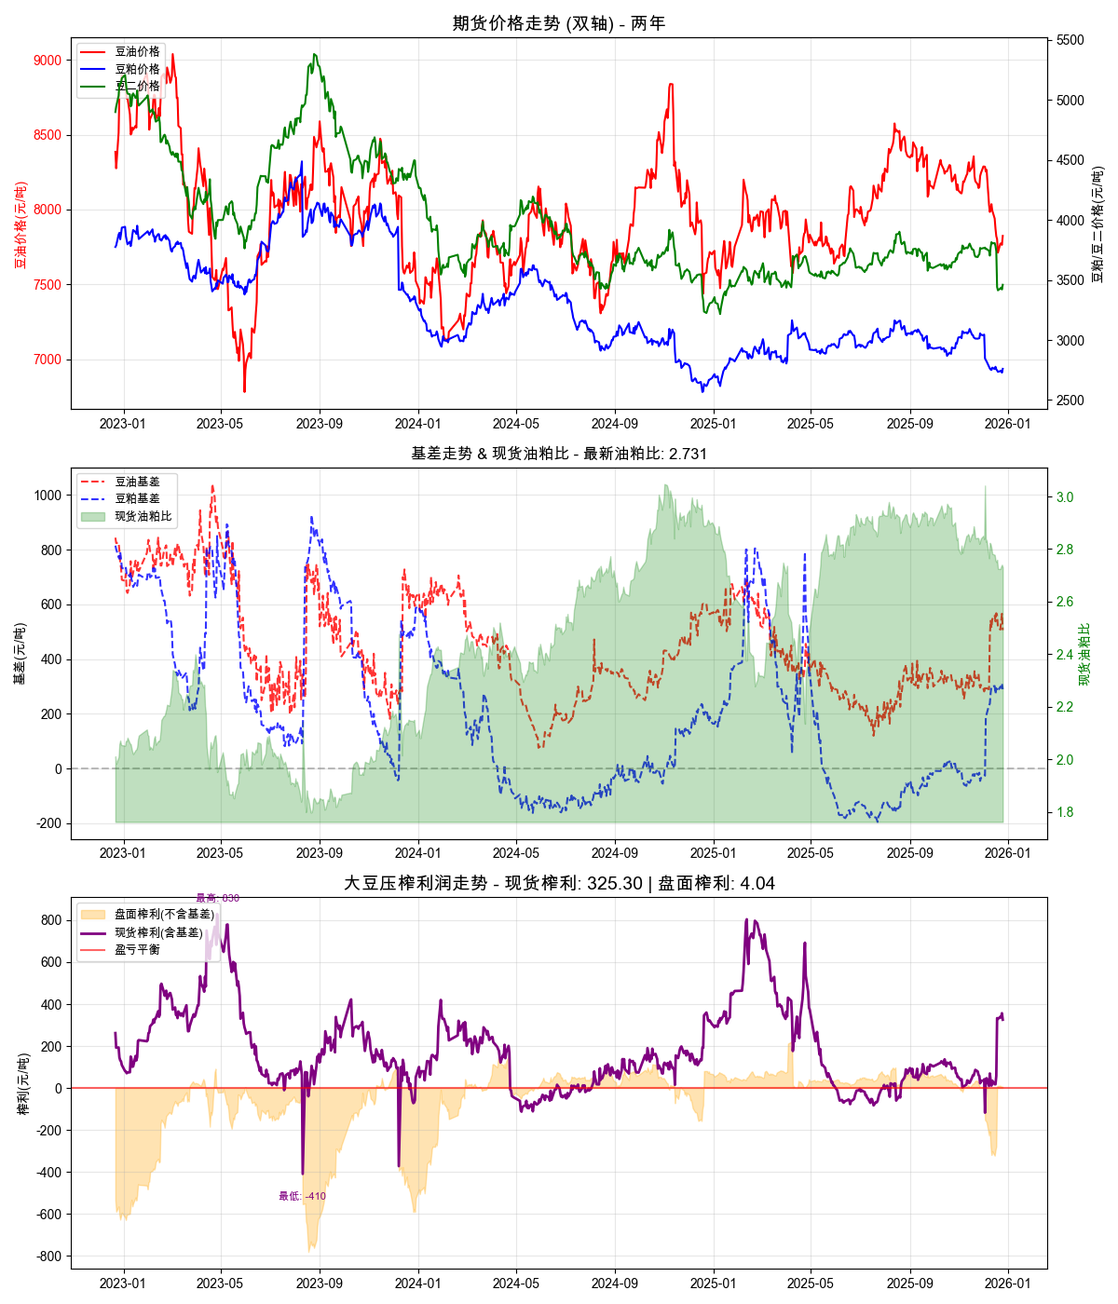
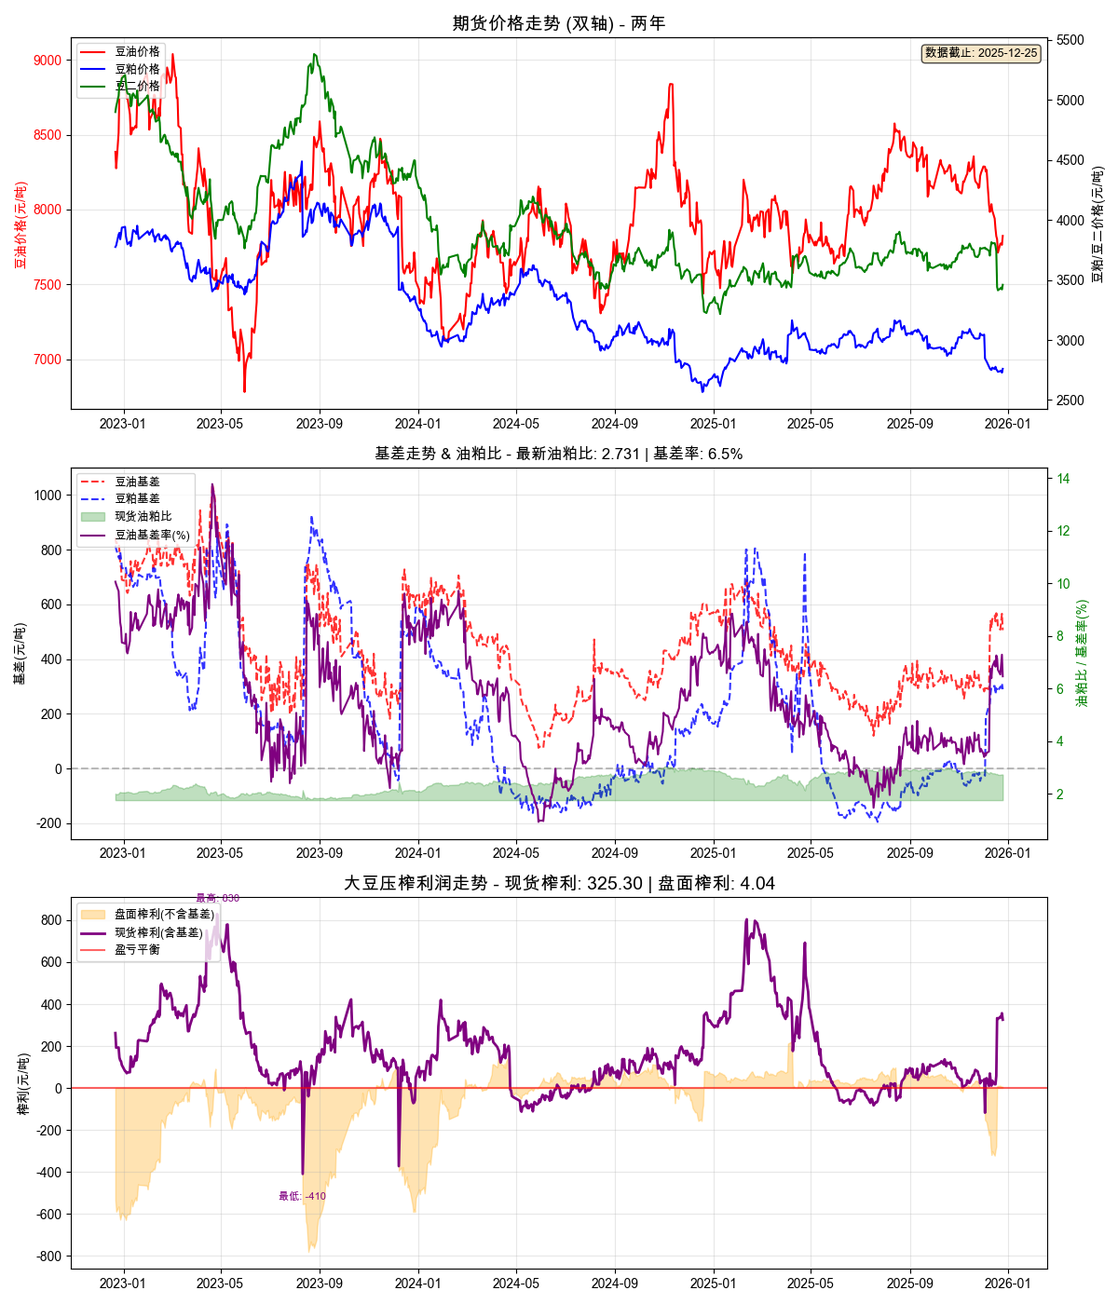
本地更新: 2025-12-25 22:46:08

Changed region(s): [[0.0925, 0.3379, 0.925, 0.645], [0.8017, 0.0307, 0.9558, 0.0614], [0.9558, 0.4607, 0.9867, 0.5529]]

diff --git a/分析文章脚本/榨利计算深度分析_v3.py b/分析文章脚本/榨利计算深度分析_v3.py
@@ -172,6 +172,8 @@ class 榨利计算器V3:
         )
         # 现货油粕比
         合并['现货油粕比'] = (合并['豆油价格'] + 合并['豆油基差']) / (合并['豆粕价格'] + 合并['豆粕基差'])
+        # 豆油基差率（基差/期货价格）
+        合并['豆油基差率'] = 合并['豆油基差'] / 合并['豆油价格'] * 100  # 百分比
         合并['榨利率'] = (合并['榨利'] / 合并['豆二价格']) * 100
         return 合并
 
@@ -201,6 +203,11 @@ class 榨利计算器V3:
         lines2, labels2 = ax1_r.get_legend_handles_labels()
         ax1.legend(lines1 + lines2, labels1 + labels2, loc='upper left', fontsize=9)
         
+        # 右上角显示最新数据日期
+        ax1.text(0.99, 0.97, f'数据截止: {最新日期}', transform=ax1.transAxes, 
+                 fontsize=9, ha='right', va='top', 
+                 bbox=dict(boxstyle='round,pad=0.3', facecolor='wheat', alpha=0.7))
+        
         # 2. 基差走势 (中图) - 含现货油粕比面积图
         ax2.plot(data['日期'], data['豆油基差'], 'r--', label='豆油基差', alpha=0.8)
         ax2.plot(data['日期'], data['豆粕基差'], 'b--', label='豆粕基差', alpha=0.8)
@@ -208,17 +215,18 @@ class 榨利计算器V3:
         ax2.set_ylabel('基差(元/吨)')
         ax2.grid(True, alpha=0.3)
         
-        # 右轴：现货油粕比面积图
+        # 右轴：现货油粕比面积图 + 豆油基差率折线
         ax2_r = ax2.twinx()
         ax2_r.fill_between(data['日期'], data['现货油粕比'].min() * 0.98, data['现货油粕比'], alpha=0.25, color='green', label='现货油粕比')
-        ax2_r.set_ylabel('现货油粕比', color='green')
+        ax2_r.plot(data['日期'], data['豆油基差率'], color='purple', linestyle='-', linewidth=1.5, label='豆油基差率(%)')
+        ax2_r.set_ylabel('油粕比 / 基差率(%)', color='green')
         ax2_r.tick_params(axis='y', labelcolor='green')
         
         # 合并图例
         lines1, labels1 = ax2.get_legend_handles_labels()
         lines2, labels2 = ax2_r.get_legend_handles_labels()
         ax2.legend(lines1 + lines2, labels1 + labels2, loc='upper left', fontsize=9)
-        ax2.set_title(f'基差走势 & 现货油粕比 - 最新油粕比: {data["现货油粕比"].iloc[-1]:.3f}', fontsize=12)
+        ax2.set_title(f'基差走势 & 油粕比 - 最新油粕比: {data["现货油粕比"].iloc[-1]:.3f} | 基差率: {data["豆油基差率"].iloc[-1]:.1f}%', fontsize=12)
         
         # 3. 榨利走势 (下图) - 含盘面榨利面积图
         # 盘面榨利面积图（不含基差）

diff --git a/content/posts/榨利深度分析报告.md b/content/posts/榨利深度分析报告.md
@@ -1,7 +1,7 @@
 ---
 title: "大豆榨利深度分析报告"
-date: 2025-12-25T22:32:23+08:00
-lastmod: 2025-12-25T22:32:23+08:00
+date: 2025-12-25T22:43:51+08:00
+lastmod: 2025-12-25T22:43:51+08:00
 description: "自动化生成的压榨利润深度报告，引用原始版本高精绘图和 DeepSeek AI 逻辑。"
 draft: false
 categories: ["榨利深度分析"]
@@ -20,46 +20,53 @@ image: ../../images/charts/margin_chart_半年.png
 
 # 大豆压榨利润深度点评
 
-## 一、 利润周期定位：处于历史高位，盈利窗口显著
+## 一、 当前利润水平的历史周期定位
 
-**核心结论：当前榨利处于历史性高位，盈利水平远超常态。**
+**当前榨利：325.30元/吨**，这一数值显著高于**半年均值80.15元/吨**，并已突破历史最值区间**[-118, 693]元/吨**的中位数。从统计角度看，当前利润处于**历史同期高位区间**，远超市场常态盈利水平。
 
-1.  **绝对水平分析**：
-    *   当前榨利 **325.30元/吨**，显著高于半年均值 **80.15元/吨**，超出均值约 **306%**。
-    *   该数值已接近半年内观测到的最高值区间（693元/吨）的中上水平，远脱离亏损区间（最低-118元/吨）。
+*   **绝对位置**：利润值处于近半年波动范围的上半部，接近顶部区域，表明当前压榨环节利润极为丰厚。
+*   **相对位置**：半年胜率高达**72.2%**，意味着在过去半年中，大部分时间维持正向榨利，且当前利润是平均水平的四倍以上，显示市场正处于一个**高盈利的强势周期**。
+*   **周期判断**：如此高的利润通常由阶段性供需错配驱动，例如上游（大豆）成本相对疲软，而下游（豆油、豆粕）需求或价格相对坚挺。该利润水平不可持续，已蕴含未来通过“原料涨价”或“产品跌价”进行修复的回归动能。
 
-2.  **相对位置与持续性评估**：
-    *   结合 **72.2%的半年胜率**，表明过去半年市场环境整体对压榨方有利。当前利润不仅是“盈利”，更是“高额盈利”。
-    *   如此高的利润水平在压榨产业中不可持续，通常由短期供需错配驱动。它既是市场机会的信号，也预示着未来利润回归均值的压力正在积聚（可能通过原料成本上涨或产成品价格下跌实现）。
+## 二、 基差结构对油厂策略的影响分析
 
-## 二、 基差结构对利润策略的影响：锁定利润的黄金窗口
+最新基差呈现 **“油强粕弱”** 的显著分化格局：
+*   **豆油基差：+506.0元/吨** - 处于**极高升水**状态。
+*   **豆粕基差：+290.0元/吨** - 处于**高升水**状态。
 
-当前“豆油强、豆粕亦强”的双高基差结构，为油厂提供了绝佳的策略操作空间。
+这种基差结构对油厂经营策略产生截然不同的影响：
 
-*   **豆油基差 506.0元/吨**：此基差处于极高水平，强烈反映出**现货市场豆油供应紧张、需求强劲或对未来看涨情绪浓厚**。高基差直接提升了油厂的现货销售价格，是当前高榨利的重要贡献者。
-*   **豆粕基差 290.0元/吨**：同样处于强势区间，表明豆粕现货需求坚挺，下游提货积极，库存压力不大。
+1.  **对现货销售的策略影响**：
+    *   **积极销售现货**：极高的现货升水为油厂提供了丰厚的**现货溢价**。油厂有极强动力在现货市场积极销售豆油和豆粕，锁定远超盘面的实际售价，这是当前高榨利的最直接来源。
+    *   **控制出货节奏**：尤其是对于豆油，极高的基差可能伴随现货供应偏紧。油厂可能通过控制出货节奏来维持现货价格的强势，从而延续高利润周期。
 
-**对油厂策略的核心影响：**
-1.  **现货销售策略**：应**积极顺价销售**现货豆油和豆粕，兑现高基差带来的超额利润。尤其是豆油，超高基差可能蕴含溢价风险。
-2.  **套期保值策略**：这是**利用期货市场锁定未来生产利润的关键时期**。当前盘面压榨利润丰厚，油厂对于未来采购的大豆，应在期货盘面上同步卖出豆油和豆粕合约，买入大豆合约（或直接卖出“油粕比”组合），将当前的高额利润提前锁定。
-3.  **基差交易策略**：可考虑在期货盘面建立虚拟库存（买入豆油、豆粕期货），同时预售远期高基差合同。若未来基差走弱，可通过期货平仓获利来弥补现货端损失，实现套利。
+2.  **对套期保值（套保）策略的影响**：
+    *   **套保意愿复杂化**：在期货盘面进行卖出套保，会损失巨大的基差收益。因此，油厂**直接在全合约上进行大规模套保的意愿极低**，这可能导致期货盘面价格缺乏产业卖压。
+    *   **差异化套保**：
+        *   **对于豆油**：极高基差下，油厂更倾向于在远月合约（基差相对较窄时）寻找套保机会，或采用“卖出看涨期权”等策略，在保留基差收益的同时管理部分风险。
+        *   **对于豆粕**：高基差同样抑制近月套保，但需关注下游承接能力和库存变化。若未来基差有走弱预期，油厂可能提前在远月布局空单。
+
+3.  **对利润锁定的策略影响**：
+    *   **“锁利”而非“锁价”**：油厂核心策略是**锁定“现货榨利”**，而非单纯的期货价格。可以通过在期货市场买入大豆（如需点价），同时在现货市场销售油粕来实现。当前高基差环境下，**现货利润远优于盘面利润**。
 
 ## 三、 短期操作与避险建议
 
-### 对于交易者（投机持仓）：
-*   **多头警惕**：当前榨利是典型的“高估”状态，做多压榨利润（买油粕、卖大豆）的风险收益比已转差。**不建议追高**。
-*   **关注反转机会**：应开始密切关注利润收敛的驱动信号（如美豆天气炒作、国内到港增加、豆粕需求转弱等），为未来**做空压榨利润**（卖油粕、买大豆）布局。当前价位可视为战略观察点，而非入场点。
-*   **短期方向**：利润的修复更可能通过产品端（豆油/豆粕）价格的相对走弱来实现，而非原料端大豆的单独暴跌。
+### 对于期货交易者（投机持仓）：
+*   **方向性交易**：**警惕利润回归风险**。当前高利润是做空“压榨利润”套利（买豆粕、豆油，卖大豆）的理论窗口。但做空需谨慎，需等待驱动信号，如大豆到港成本显著上升、或豆粕/豆油消费转弱导致现货崩盘。
+*   **建议**：短期不宜追高油粕单边多头，因高利润下产业套保盘随时可能介入。可关注逢高布局远月“空油粕、多大豆”的套利机会，但需耐心等待基差开始松动或成本端启动。
 
 ### 对于压榨企业（产业避险）：
-1.  **首要任务——锁定利润**：对于已采购的现货大豆，应立即在期货市场对产成品进行**100%以上的套期保值**，固化每吨300元以上的利润。对于未点价的远期大豆，可结合盘面利润，**积极点价并同步套保**。
-2.  **基差风险管理**：在销售现货时，可适当将一部分头寸以**“期货价格+固定基差”** 的远期合同模式销售，将基差风险转移，专注赚取锁定的加工利润。
-3.  **采购节奏建议**：避免在榨利高点过度激进地追高采购远期大豆。应采取“小步快跑”策略，采购与套保紧密配合，不裸漏大豆原料的上涨风险。
-4.  **库存策略**：在保证合同执行的前提下，不宜过度囤积产成品现货库存。高利润和高基差环境下，“变现”比“囤货”更安全。
+1.  **现货端**：**全力抓住高基差窗口，加速现货去库，兑现利润**。将高额现货利润落袋为安是第一要务。
+2.  **采购端**：对于未点价的大豆，可考虑在回调时分批点价，建立低成本原料库存。同时，利用当前高利润环境，通过**远期基差合同**预售未来产出的油粕，提前锁定部分利润。
+3.  **套保端**：
+    *   **避免在近月合约进行大量卖出套保**，以免牺牲巨额基差。
+    *   **采用“阶梯式套保”**：在远月合约（如3个月后）上，当盘面压榨利润仍处于可观水平时，逐步建立部分套保头寸，为未来可能下降的利润提供保护。
+    *   **运用期权工具**：考虑买入豆粕/豆油的看跌期权，或卖出虚值看涨期权，以较低成本或带收益的方式构建下行保护。
+4.  **核心风控**：密切监控**大豆到港成本、下游提货速度及库存变化**。一旦发现豆油或豆粕的现货成交放缓、基差报价开始松动，应立即启动更为积极的期货套保，防范利润快速回吐。
 
 ---
 
-**总结：当前大豆压榨利润处于周期性高位，由双高基差强力支撑。对产业而言，这是天赐的套保良机，核心策略应从“博行情”转向“锁利润”。对市场而言，高利润如同“磁石”，必将吸引供应增加或抑制需求，最终引导利润回归。投资者需耐心等待驱动信号，布局均值回归行情。**
+**总结**：当前大豆压榨利润处于异常丰厚的高位，由极强的现货升水结构驱动。这为油厂创造了黄金盈利期，但也积累了巨大的均值回归风险。产业方应“现金为王，积极销售”，并着手为利润下行周期布局远期保护；交易者则应保持警惕，不宜线性外推当前涨势，重点寻找利润压缩逻辑下的结构性机会。市场焦点将转向基差可持续性与成本端变化。
 
 ---
 
@@ -83,4 +90,4 @@ image: ../../images/charts/margin_chart_半年.png
 ## 🛠 计算说明
 > 榨利 = (豆油现货价格 × 18.5% + 豆粕现货价格 × 78.5%) - 豆二价格 - 150.0
 > 数据源：交易法门(基差) / Akshare(期货)
-> 更新时间：2025-12-25 22:32:23
+> 更新时间：2025-12-25 22:43:51

diff --git a/分析文章脚本/blog/榨利深度分析报告.md b/分析文章脚本/blog/榨利深度分析报告.md
@@ -1,7 +1,7 @@
 ---
 title: "大豆榨利深度分析报告"
-date: 2025-12-25T22:32:23+08:00
-lastmod: 2025-12-25T22:32:23+08:00
+date: 2025-12-25T22:43:51+08:00
+lastmod: 2025-12-25T22:43:51+08:00
 description: "自动化生成的压榨利润深度报告，引用原始版本高精绘图和 DeepSeek AI 逻辑。"
 draft: false
 categories: ["榨利深度分析"]
@@ -20,46 +20,53 @@ image: ../../images/charts/margin_chart_半年.png
 
 # 大豆压榨利润深度点评
 
-## 一、 利润周期定位：处于历史高位，盈利窗口显著
+## 一、 当前利润水平的历史周期定位
 
-**核心结论：当前榨利处于历史性高位，盈利水平远超常态。**
+**当前榨利：325.30元/吨**，这一数值显著高于**半年均值80.15元/吨**，并已突破历史最值区间**[-118, 693]元/吨**的中位数。从统计角度看，当前利润处于**历史同期高位区间**，远超市场常态盈利水平。
 
-1.  **绝对水平分析**：
-    *   当前榨利 **325.30元/吨**，显著高于半年均值 **80.15元/吨**，超出均值约 **306%**。
-    *   该数值已接近半年内观测到的最高值区间（693元/吨）的中上水平，远脱离亏损区间（最低-118元/吨）。
+*   **绝对位置**：利润值处于近半年波动范围的上半部，接近顶部区域，表明当前压榨环节利润极为丰厚。
+*   **相对位置**：半年胜率高达**72.2%**，意味着在过去半年中，大部分时间维持正向榨利，且当前利润是平均水平的四倍以上，显示市场正处于一个**高盈利的强势周期**。
+*   **周期判断**：如此高的利润通常由阶段性供需错配驱动，例如上游（大豆）成本相对疲软，而下游（豆油、豆粕）需求或价格相对坚挺。该利润水平不可持续，已蕴含未来通过“原料涨价”或“产品跌价”进行修复的回归动能。
 
-2.  **相对位置与持续性评估**：
-    *   结合 **72.2%的半年胜率**，表明过去半年市场环境整体对压榨方有利。当前利润不仅是“盈利”，更是“高额盈利”。
-    *   如此高的利润水平在压榨产业中不可持续，通常由短期供需错配驱动。它既是市场机会的信号，也预示着未来利润回归均值的压力正在积聚（可能通过原料成本上涨或产成品价格下跌实现）。
+## 二、 基差结构对油厂策略的影响分析
 
-## 二、 基差结构对利润策略的影响：锁定利润的黄金窗口
+最新基差呈现 **“油强粕弱”** 的显著分化格局：
+*   **豆油基差：+506.0元/吨** - 处于**极高升水**状态。
+*   **豆粕基差：+290.0元/吨** - 处于**高升水**状态。
 
-当前“豆油强、豆粕亦强”的双高基差结构，为油厂提供了绝佳的策略操作空间。
+这种基差结构对油厂经营策略产生截然不同的影响：
 
-*   **豆油基差 506.0元/吨**：此基差处于极高水平，强烈反映出**现货市场豆油供应紧张、需求强劲或对未来看涨情绪浓厚**。高基差直接提升了油厂的现货销售价格，是当前高榨利的重要贡献者。
-*   **豆粕基差 290.0元/吨**：同样处于强势区间，表明豆粕现货需求坚挺，下游提货积极，库存压力不大。
+1.  **对现货销售的策略影响**：
+    *   **积极销售现货**：极高的现货升水为油厂提供了丰厚的**现货溢价**。油厂有极强动力在现货市场积极销售豆油和豆粕，锁定远超盘面的实际售价，这是当前高榨利的最直接来源。
+    *   **控制出货节奏**：尤其是对于豆油，极高的基差可能伴随现货供应偏紧。油厂可能通过控制出货节奏来维持现货价格的强势，从而延续高利润周期。
 
-**对油厂策略的核心影响：**
-1.  **现货销售策略**：应**积极顺价销售**现货豆油和豆粕，兑现高基差带来的超额利润。尤其是豆油，超高基差可能蕴含溢价风险。
-2.  **套期保值策略**：这是**利用期货市场锁定未来生产利润的关键时期**。当前盘面压榨利润丰厚，油厂对于未来采购的大豆，应在期货盘面上同步卖出豆油和豆粕合约，买入大豆合约（或直接卖出“油粕比”组合），将当前的高额利润提前锁定。
-3.  **基差交易策略**：可考虑在期货盘面建立虚拟库存（买入豆油、豆粕期货），同时预售远期高基差合同。若未来基差走弱，可通过期货平仓获利来弥补现货端损失，实现套利。
+2.  **对套期保值（套保）策略的影响**：
+    *   **套保意愿复杂化**：在期货盘面进行卖出套保，会损失巨大的基差收益。因此，油厂**直接在全合约上进行大规模套保的意愿极低**，这可能导致期货盘面价格缺乏产业卖压。
+    *   **差异化套保**：
+        *   **对于豆油**：极高基差下，油厂更倾向于在远月合约（基差相对较窄时）寻找套保机会，或采用“卖出看涨期权”等策略，在保留基差收益的同时管理部分风险。
+        *   **对于豆粕**：高基差同样抑制近月套保，但需关注下游承接能力和库存变化。若未来基差有走弱预期，油厂可能提前在远月布局空单。
+
+3.  **对利润锁定的策略影响**：
+    *   **“锁利”而非“锁价”**：油厂核心策略是**锁定“现货榨利”**，而非单纯的期货价格。可以通过在期货市场买入大豆（如需点价），同时在现货市场销售油粕来实现。当前高基差环境下，**现货利润远优于盘面利润**。
 
 ## 三、 短期操作与避险建议
 
-### 对于交易者（投机持仓）：
-*   **多头警惕**：当前榨利是典型的“高估”状态，做多压榨利润（买油粕、卖大豆）的风险收益比已转差。**不建议追高**。
-*   **关注反转机会**：应开始密切关注利润收敛的驱动信号（如美豆天气炒作、国内到港增加、豆粕需求转弱等），为未来**做空压榨利润**（卖油粕、买大豆）布局。当前价位可视为战略观察点，而非入场点。
-*   **短期方向**：利润的修复更可能通过产品端（豆油/豆粕）价格的相对走弱来实现，而非原料端大豆的单独暴跌。
+### 对于期货交易者（投机持仓）：
+*   **方向性交易**：**警惕利润回归风险**。当前高利润是做空“压榨利润”套利（买豆粕、豆油，卖大豆）的理论窗口。但做空需谨慎，需等待驱动信号，如大豆到港成本显著上升、或豆粕/豆油消费转弱导致现货崩盘。
+*   **建议**：短期不宜追高油粕单边多头，因高利润下产业套保盘随时可能介入。可关注逢高布局远月“空油粕、多大豆”的套利机会，但需耐心等待基差开始松动或成本端启动。
 
 ### 对于压榨企业（产业避险）：
-1.  **首要任务——锁定利润**：对于已采购的现货大豆，应立即在期货市场对产成品进行**100%以上的套期保值**，固化每吨300元以上的利润。对于未点价的远期大豆，可结合盘面利润，**积极点价并同步套保**。
-2.  **基差风险管理**：在销售现货时，可适当将一部分头寸以**“期货价格+固定基差”** 的远期合同模式销售，将基差风险转移，专注赚取锁定的加工利润。
-3.  **采购节奏建议**：避免在榨利高点过度激进地追高采购远期大豆。应采取“小步快跑”策略，采购与套保紧密配合，不裸漏大豆原料的上涨风险。
-4.  **库存策略**：在保证合同执行的前提下，不宜过度囤积产成品现货库存。高利润和高基差环境下，“变现”比“囤货”更安全。
+1.  **现货端**：**全力抓住高基差窗口，加速现货去库，兑现利润**。将高额现货利润落袋为安是第一要务。
+2.  **采购端**：对于未点价的大豆，可考虑在回调时分批点价，建立低成本原料库存。同时，利用当前高利润环境，通过**远期基差合同**预售未来产出的油粕，提前锁定部分利润。
+3.  **套保端**：
+    *   **避免在近月合约进行大量卖出套保**，以免牺牲巨额基差。
+    *   **采用“阶梯式套保”**：在远月合约（如3个月后）上，当盘面压榨利润仍处于可观水平时，逐步建立部分套保头寸，为未来可能下降的利润提供保护。
+    *   **运用期权工具**：考虑买入豆粕/豆油的看跌期权，或卖出虚值看涨期权，以较低成本或带收益的方式构建下行保护。
+4.  **核心风控**：密切监控**大豆到港成本、下游提货速度及库存变化**。一旦发现豆油或豆粕的现货成交放缓、基差报价开始松动，应立即启动更为积极的期货套保，防范利润快速回吐。
 
 ---
 
-**总结：当前大豆压榨利润处于周期性高位，由双高基差强力支撑。对产业而言，这是天赐的套保良机，核心策略应从“博行情”转向“锁利润”。对市场而言，高利润如同“磁石”，必将吸引供应增加或抑制需求，最终引导利润回归。投资者需耐心等待驱动信号，布局均值回归行情。**
+**总结**：当前大豆压榨利润处于异常丰厚的高位，由极强的现货升水结构驱动。这为油厂创造了黄金盈利期，但也积累了巨大的均值回归风险。产业方应“现金为王，积极销售”，并着手为利润下行周期布局远期保护；交易者则应保持警惕，不宜线性外推当前涨势，重点寻找利润压缩逻辑下的结构性机会。市场焦点将转向基差可持续性与成本端变化。
 
 ---
 
@@ -83,4 +90,4 @@ image: ../../images/charts/margin_chart_半年.png
 ## 🛠 计算说明
 > 榨利 = (豆油现货价格 × 18.5% + 豆粕现货价格 × 78.5%) - 豆二价格 - 150.0
 > 数据源：交易法门(基差) / Akshare(期货)
-> 更新时间：2025-12-25 22:32:23
+> 更新时间：2025-12-25 22:43:51
